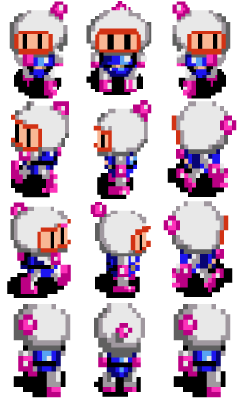
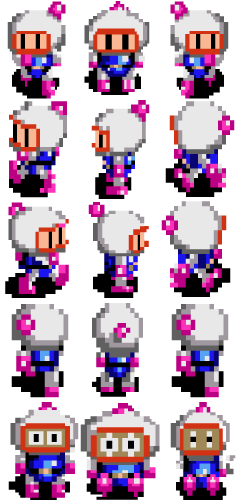
Set death state

diff --git a/ARGO/Game.cpp b/ARGO/Game.cpp
@@ -86,23 +86,23 @@ void Game::initialise()
 
 
 	player.addComponent(new PositionComponent(300, 100));
-	player.addComponent(new SpriteComponent("img/playerSheet.png", 0.5, m_renderer, 3, 4));
+	player.addComponent(new SpriteComponent("img/playerSheet.png", 0.5, m_renderer, 3, 5));
 	player.addComponent(new AnimationComponent());
 	player.addComponent(new CollisionComponent());
 
 
 	player2.addComponent(new PositionComponent(500, 100));
-	player2.addComponent(new SpriteComponent("img/playerSheet.png", 0.5, m_renderer, 3, 4));
+	player2.addComponent(new SpriteComponent("img/playerSheet.png", 0.5, m_renderer, 3, 5));
 	player2.addComponent(new AnimationComponent());
 	player2.addComponent(new CollisionComponent());
 
 	player3.addComponent(new PositionComponent(100, 500));
-	player3.addComponent(new SpriteComponent("img/playerSheet.png", 0.5, m_renderer, 3, 4));
+	player3.addComponent(new SpriteComponent("img/playerSheet.png", 0.5, m_renderer, 3, 5));
 	player3.addComponent(new AnimationComponent());
 	player3.addComponent(new CollisionComponent());
 
 	player4.addComponent(new PositionComponent(500, 500));
-	player4.addComponent(new SpriteComponent("img/playerSheet.png", 0.5, m_renderer, 3, 4));
+	player4.addComponent(new SpriteComponent("img/playerSheet.png", 0.5, m_renderer, 3, 5));
 	player4.addComponent(new AnimationComponent());
 	player4.addComponent(new CollisionComponent());
 

diff --git a/ARGO/CollisionSystem.cpp b/ARGO/CollisionSystem.cpp
@@ -164,7 +164,6 @@ void CollisionSystem::tileCollision(float x, float y, float width, float height,
 			y + height >= m_tiles.m_wall[i].y &&
 			y <= m_tiles.m_wall[i].y + m_tiles.m_wall[i].height)
 		{
-
 			cc->moveRight = 0;
 			posComp1->setPosition(m_tiles.m_wall[i].x - width, y);
 		}
@@ -180,7 +179,6 @@ void CollisionSystem::tileCollision(float x, float y, float width, float height,
 		{
 			if (cc->getDirection() == cc->Idle)
 			{
-				//std::cout << "Ceiling HIT" << std::endl;
 				cc->stopFall = false;
 				cc->OnPlatform = false;
 				cc->ceilingHit = true;
@@ -196,7 +194,7 @@ void CollisionSystem::tileCollision(float x, float y, float width, float height,
 			(abs(y1 - m_tiles.m_killTiles[i].y) * 2 < (height1 + m_tiles.m_killTiles[i].height)))
 		{
 			std::cout << "KILL TILES COLLIDE" << std::endl;
-			posComp1->setPosition(680, 100);
+			cc->alive = false;
 		}
 	}
 

diff --git a/ARGO/Idle.cpp b/ARGO/Idle.cpp
@@ -2,6 +2,7 @@
 #include "JumpLeft.h"
 #include "JumpRight.h"
 #include "Right.h"
+#include "Die.h"
 #include "Left.h"
 
 void Idle::jumpLeft(AnimationComponent* a)
@@ -50,5 +51,17 @@ void Idle::right(AnimationComponent* a)
 	a->sRect.h = 100 * a->m_scale;
 	a->sRect.w = 80 * a->m_scale;
 	a->sRect.x = 0;
+	delete this;
+}
+
+void Idle::die(AnimationComponent* a)
+{
+	std::cout << "Going from left to Die" << std::endl;
+	a->setCurrent(new Die());
+	a->setCurrentState(a->DieS);
+	a->sRect.y = 400;
+	a->sRect.h = 100 * a->m_scale;
+	a->sRect.x = 80;
+	a->sRect.w = 80 * a->m_scale;
 	delete this;
 }

diff --git a/ARGO/JumpRight.cpp b/ARGO/JumpRight.cpp
@@ -1,6 +1,7 @@
 #include "JumpRight.h"
 #include "Idle.h"
 #include "JumpLeft.h"
+#include "Die.h"
 
 void JumpRight::idle(AnimationComponent* a)
 {
@@ -23,5 +24,17 @@ void JumpRight::jumpLeft(AnimationComponent* a)
 	a->sRect.h = 100 * a->m_scale;
 	a->sRect.w = 80 * a->m_scale;
 	a->sRect.x = 0;
+	delete this;
+}
+
+void JumpRight::die(AnimationComponent* a)
+{
+	std::cout << "Going from left to Die" << std::endl;
+	a->setCurrent(new Die());
+	a->setCurrentState(a->DieS);
+	a->sRect.y = 400;
+	a->sRect.h = 100 * a->m_scale;
+	a->sRect.x = 80;
+	a->sRect.w = 80 * a->m_scale;
 	delete this;
 }

diff --git a/ARGO/PhysicsSystem.cpp b/ARGO/PhysicsSystem.cpp
@@ -1,5 +1,6 @@
 #include "PhysicsSystem.h"
 
+
 PhysicsSystem::PhysicsSystem() {
 
 }
@@ -40,7 +41,8 @@ void PhysicsSystem::update() {
 
 				posY = pc->getPositionY();
 				posX = pc->getPositionX();
-				vecY++;
+				if (vecY <= 15)
+					vecY++;
 				posY += vecY;
 				pc->setPosition(posX, posY);
 				collision = 0;
@@ -108,10 +110,16 @@ void PhysicsSystem::update() {
 		{
 			vecY = 5;
 			cc->ceilingHit = false;
-
 		}
-	
-
+		if (!cc->alive)
+		{
+			ac->die();
+			
+			posX = 680;
+			posY = 100;
+			pc->setPosition(posX, posY);
+			cc->alive = true;
+		}
 	}
 
 

diff --git a/ARGO/JumpLeft.cpp b/ARGO/JumpLeft.cpp
@@ -1,5 +1,5 @@
 #include "JumpLeft.h"
-#include "Idle.h"
+#include "Die.h"
 
 void JumpLeft::idle(AnimationComponent* a)
 {
@@ -24,4 +24,16 @@ void JumpLeft::jumpRight(AnimationComponent* a)
 	a->sRect.w = 80 * a->m_scale;
 	a->sRect.x = 160 * a->m_scale;
 	delete this;
+}
+
+void JumpLeft::die(AnimationComponent* a)
+{
+	std::cout << "Going from left to Die" << std::endl;
+		a->setCurrent(new Die());
+		a->setCurrentState(a->DieS);
+		a->sRect.y = 400;
+		a->sRect.h = 100 * a->m_scale;
+		a->sRect.x = 80;
+		a->sRect.w = 80 * a->m_scale;
+		delete this;
 }

diff --git a/ARGO/Client.cpp b/ARGO/Client.cpp
@@ -105,7 +105,7 @@ std::string Client::receive()
 		{
 			// Host server
 			std::cout << "Host" << std::endl;
-			ShellExecute(NULL, "open", "Server\\MultipleClientsBarebonesServer.exe", NULL, NULL, SW_SHOWDEFAULT);
+			//ShellExecute(NULL, "open", "Server\\MultipleClientsBarebonesServer.exe", NULL, NULL, SW_SHOWDEFAULT);
 			//ShellExecute(NULL, "open", "..\\Game Server\\Server\\x64\\Debug\\MultipleClientsBarebonesServer.exe", NULL, NULL, SW_SHOWDEFAULT);
 		}
 		else if (msg.substr(0, 8) == "Joining ")

diff --git a/ARGO/Animation.h b/ARGO/Animation.h
@@ -4,7 +4,6 @@
 #include <SDL.h>
 
 
-
 class AnimationComponent : public Component
 {
 	
@@ -26,6 +25,8 @@ public:
 
 	void left();
 
+	void die();
+
 	std::string getID()
 	{
 		return id;
@@ -41,7 +42,8 @@ public:
 		leftS,
 		rightS,
 		jumpLeftS,
-		jumpRightS
+		jumpRightS,
+		DieS
 	};
 
 	AniState getCurrentState();

diff --git a/ARGO/Die.cpp b/ARGO/Die.cpp
@@ -1,0 +1,14 @@
+#include "Die.h"
+
+void Die::idle(AnimationComponent* a)
+{
+	std::cout << "Going from idle to Die" << std::endl;
+	a->setCurrent(new Idle());
+	a->setCurrentState(a->DieS);
+	a->sRect.y = 400;
+	a->sRect.h = 100 * a->m_scale;
+	a->sRect.x = 80;
+	a->sRect.w = 80 * a->m_scale;
+	delete this;
+}
+

diff --git a/ARGO/JumpLeft.h b/ARGO/JumpLeft.h
@@ -1,6 +1,7 @@
 #pragma once
 #include "State.h"
 #include "JumpRight.h"
+#include "Idle.h"
 
 class JumpLeft : public State
 {
@@ -8,8 +9,6 @@ public:
 	JumpLeft() {};
 	~JumpLeft() {};
 	void idle(AnimationComponent* a);
-	
-
 	void jumpRight(AnimationComponent* a);
-	
+	void die(AnimationComponent* a);
 };

diff --git a/ARGO/CollisionComp.h b/ARGO/CollisionComp.h
@@ -11,6 +11,7 @@ public:
 	bool squareCollided = false;
 	bool crclCollided = false;
 
+
 	CollisionComponent() {};
 
 	bool CircularCollision(float x1, float y1, float x2, float y2, float radius1, float radius2)

diff --git a/ARGO/Animation.cpp b/ARGO/Animation.cpp
@@ -29,6 +29,10 @@ void AnimationComponent::left()
 {
 	m_current->left(this);
 }
+void AnimationComponent::die()
+{
+	m_current->die(this);
+}
 
 void AnimationComponent::setCurrent(State* s)
 {
